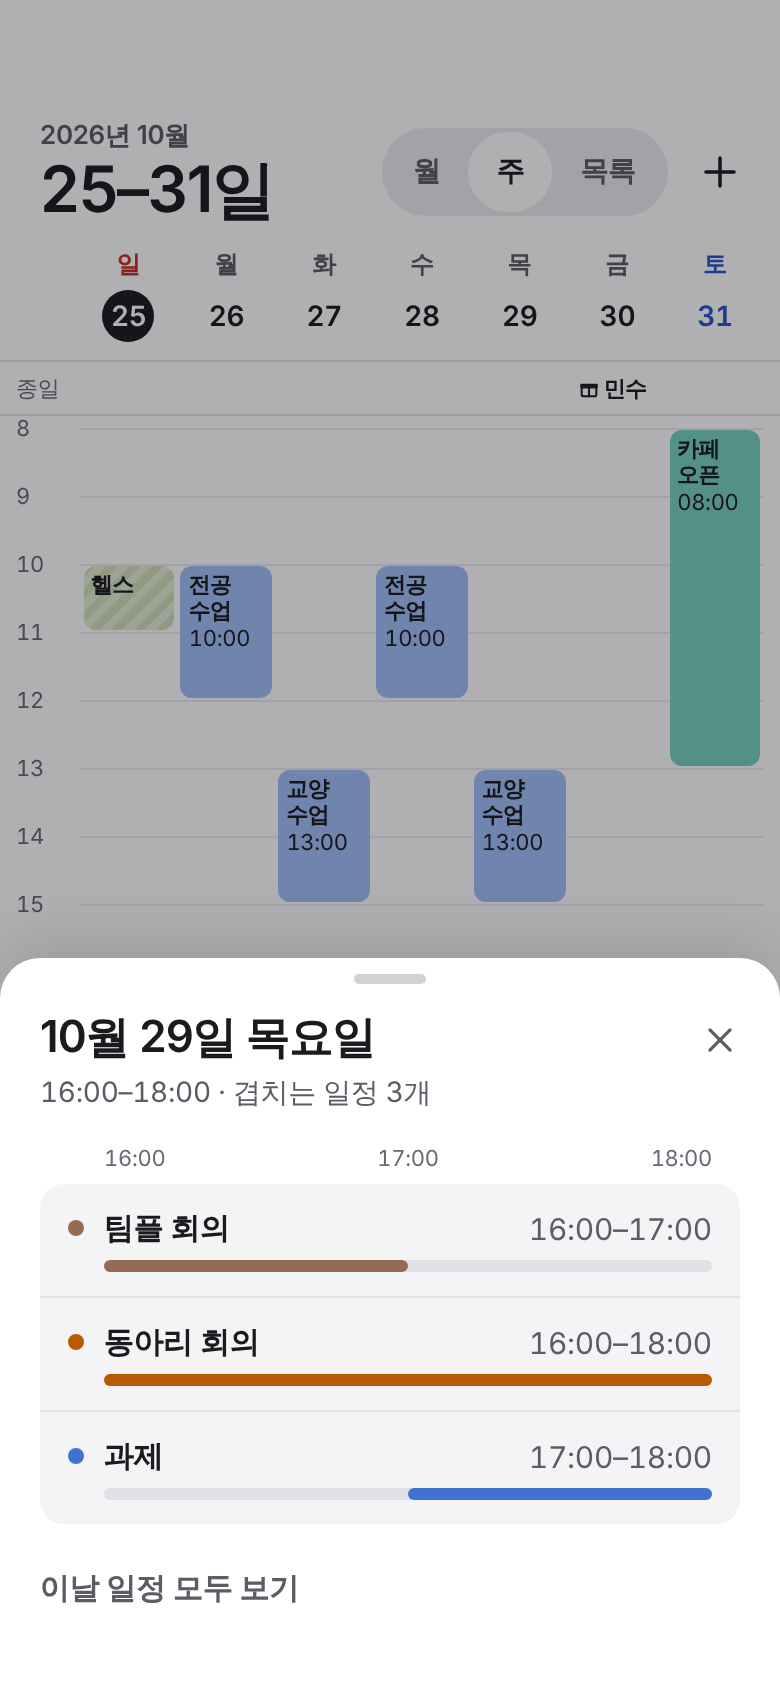
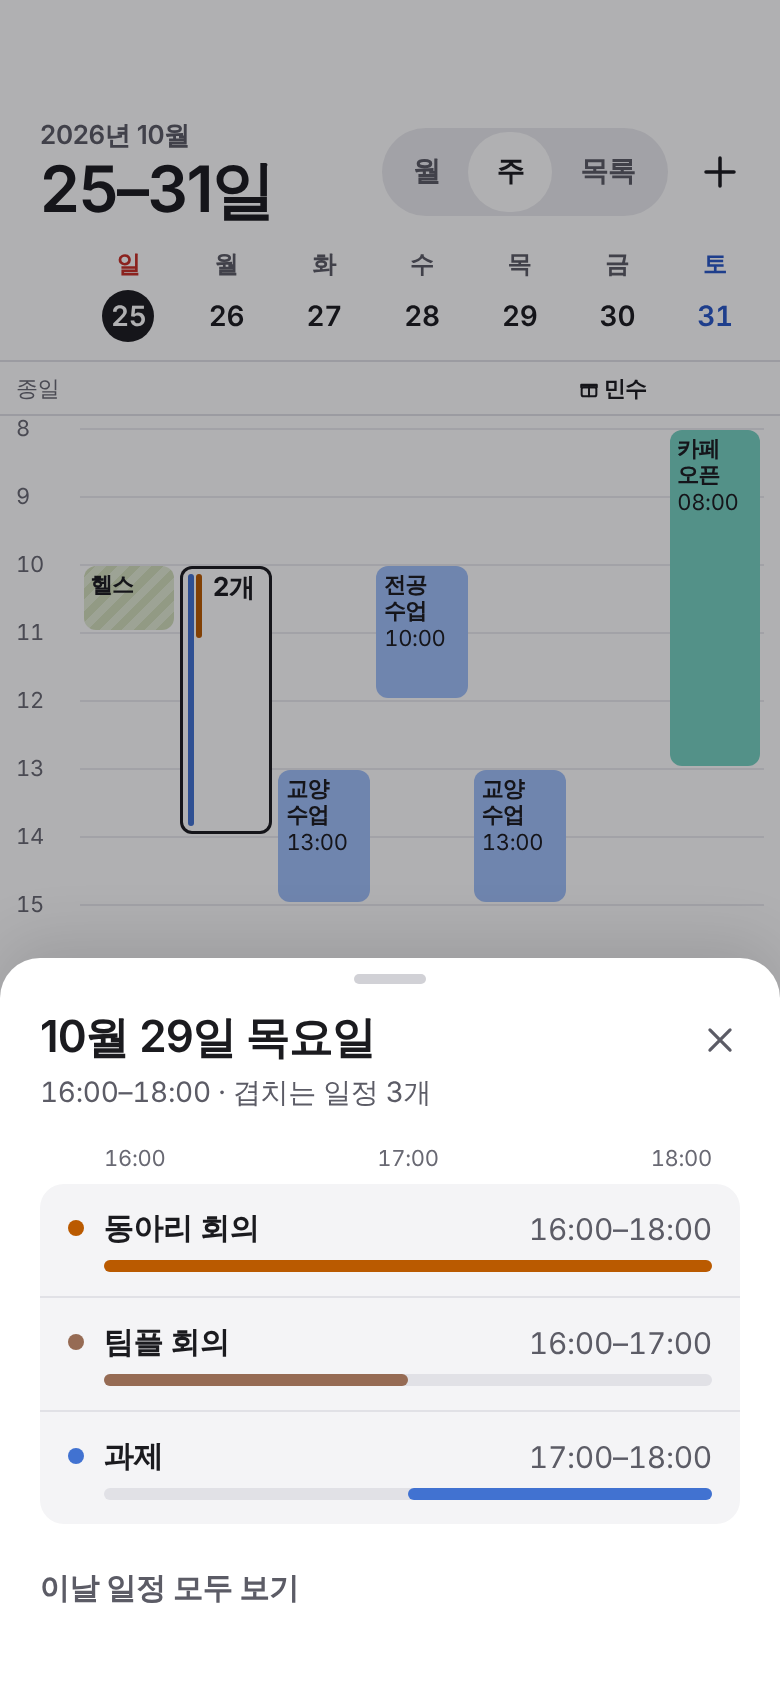
docs(design): drop the overlap label and draw each stripe over its own event's time
Adds the case of a short event at the start of a long one (10-11 inside 10-14).

Claude-Session: https://claude.ai/code/session_0132zdS6N6MJFEgcRXTttwBV

Changed region(s): [[0.0923, 0.7085, 0.9231, 0.8318], [0.2154, 0.3081, 0.3692, 0.4929]]

diff --git a/docs/design/boards/WeekOverlap.dc.html b/docs/design/boards/WeekOverlap.dc.html
@@ -60,12 +60,11 @@ button{font:inherit;letter-spacing:inherit;color:inherit}
 </a>
 </sc-for>
 <sc-for list="{{groups}}" as="g" hint-placeholder-count="1">
-<button type="button" onClick="{{openSheet}}" aria-label="{{g.label}}" style="position: absolute; left: {{g.x}}px; top: {{g.y}}px; width: {{g.w}}px; height: {{g.h}}px; box-sizing: border-box; padding: 4px 4px 4px 13px; border: none; border-radius: 6px; background: #ffffff; box-shadow: inset 0 0 0 1.5px #1b1b1f; color: #1b1b1f; overflow: hidden; display: flex; flex-direction: column; align-items: flex-start; gap: 1px; cursor: pointer; text-align: left">
-<span aria-hidden="true" style="position: absolute; left: 4px; top: 4px; bottom: 4px; width: 7px; display: flex; gap: 1px">
-<sc-for list="{{g.stripes}}" as="c" hint-placeholder-count="3"><span style="flex: 1 1 0; border-radius: 1px; background: {{c}}"></span></sc-for>
+<button type="button" onClick="{{g.open}}" aria-label="{{g.label}}" style="position: absolute; left: {{g.x}}px; top: {{g.y}}px; width: {{g.w}}px; height: {{g.h}}px; box-sizing: border-box; padding: 4px 4px 4px {{g.pad}}px; border: none; border-radius: 6px; background: #ffffff; box-shadow: inset 0 0 0 1.5px #1b1b1f; color: #1b1b1f; overflow: hidden; display: flex; flex-direction: column; align-items: flex-start; gap: 1px; cursor: pointer; text-align: left">
+<span aria-hidden="true" style="position: absolute; left: 4px; top: 4px; bottom: 4px; display: flex; gap: 1px">
+<sc-for list="{{g.stripes}}" as="c" hint-placeholder-count="3"><span style="position: relative; width: 3px"><span style="position: absolute; left: 0; right: 0; top: {{c.top}}%; height: {{c.h}}%; border-radius: 1.5px; background: {{c.c}}"></span></span></sc-for>
 </span>
 <span style="font-size: 13px; font-weight: 700; line-height: 15px; font-variant-numeric: tabular-nums">{{g.n}}</span>
-<span style="font-size: 11px; line-height: 13px; color: #5c5c66">겹침</span>
 </button>
 </sc-for>
 </div>
@@ -110,18 +109,18 @@ button{font:inherit;letter-spacing:inherit;color:inherit}
 
 <sc-if value="{{open}}" hint-placeholder-val="{{false}}">
 <div aria-hidden="true" onClick="{{closeSheet}}" style="position: absolute; inset: 0; background: rgba(10,10,14,0.32)"></div>
-<section role="dialog" aria-modal="true" aria-label="10월 29일 16:00부터 18:00까지 겹치는 일정 3개" style="position: absolute; left: 0; bottom: 0; width: 390px; box-sizing: border-box; padding: 8px 20px 34px; background: #ffffff; border-radius: 20px 20px 0 0; box-shadow: 0 -8px 32px rgba(0,0,0,0.12); display: flex; flex-direction: column; gap: 16px">
+<section role="dialog" aria-modal="true" aria-label="{{sel.label}}" style="position: absolute; left: 0; bottom: 0; width: 390px; box-sizing: border-box; padding: 8px 20px 34px; background: #ffffff; border-radius: 20px 20px 0 0; box-shadow: 0 -8px 32px rgba(0,0,0,0.12); display: flex; flex-direction: column; gap: 16px">
 <div aria-hidden="true" style="align-self: center; width: 36px; height: 5px; border-radius: 3px; background: #d1d1d6"></div>
 <div style="display: flex; align-items: flex-start; justify-content: space-between; margin-top: -4px">
 <div style="display: flex; flex-direction: column; gap: 4px">
-<h2 style="margin: 0; font-size: 22px; font-weight: 600; letter-spacing: -0.02em">10월 29일 목요일</h2>
-<span style="font-size: 14px; color: #5c5c66; font-variant-numeric: tabular-nums">16:00–18:00 · 겹치는 일정 3개</span>
+<h2 style="margin: 0; font-size: 22px; font-weight: 600; letter-spacing: -0.02em">{{sel.day}}</h2>
+<span style="font-size: 14px; color: #5c5c66; font-variant-numeric: tabular-nums">{{sel.sub}}</span>
 </div>
 <button type="button" onClick="{{closeSheet}}" aria-label="닫기" style="width: 44px; height: 44px; margin: -6px -12px 0 0; border: none; background: none; display: flex; align-items: center; justify-content: center; color: #5c5c66; cursor: pointer"><svg viewBox="0 0 24 24" width="22" height="22" aria-hidden="true" style="fill: none; stroke: currentColor; stroke-width: 1.75; stroke-linecap: round; stroke-linejoin: round"><path d="M6.5 6.5l11 11M17.5 6.5l-11 11"></path></svg></button>
 </div>
-<div aria-hidden="true" style="display: flex; justify-content: space-between; margin: 0 14px -10px 32px; font-size: 11px; color: #696973; font-variant-numeric: tabular-nums"><span>16:00</span><span>17:00</span><span>18:00</span></div>
+<div aria-hidden="true" style="display: flex; justify-content: space-between; margin: 0 14px -10px 32px; font-size: 11px; color: #696973; font-variant-numeric: tabular-nums"><span>{{sel.a}}</span><span>{{sel.b}}</span><span>{{sel.c}}</span></div>
 <ul style="margin: 0; padding: 0; list-style: none; border-radius: 12px; background: #f4f4f6; overflow: hidden">
-<sc-for list="{{rows}}" as="r" hint-placeholder-count="3">
+<sc-for list="{{sel.rows}}" as="r" hint-placeholder-count="3">
 <li style="border-top: {{r.line}}">
 <a href="Editor.dc.html" aria-label="{{r.label}}" style="min-height: 56px; box-sizing: border-box; padding: 8px 14px; display: flex; flex-direction: column; justify-content: center; gap: 6px">
 <span style="display: flex; align-items: center; gap: 10px">
@@ -146,7 +145,7 @@ button{font:inherit;letter-spacing:inherit;color:inherit}
 class Component extends DCLogic {
   constructor(props) {
     super(props);
-    this.state = { ni: 1, open: false };
+    this.state = { ni: 1, open: -1 };
   }
   renderVals() {
     const W = ['일', '월', '화', '수', '목', '금', '토'];
@@ -166,7 +165,6 @@ class Component extends DCLogic {
     const E = [
       [0, 10, 11, '헬스', soft, '#1b1b1f'],
       [0, 18, 20, '가족 · 저녁', '#c04c7b', '#ffffff'],
-      [1, 10, 12, '전공 수업', '#a0c0fa', '#1b1b1f'],
       [1, 19, 20, '헬스', soft, '#1b1b1f'],
       [2, 13, 15, '교양 수업', '#a0c0fa', '#1b1b1f'],
       [3, 10, 12, '전공 수업', '#a0c0fa', '#1b1b1f'],
@@ -202,36 +200,62 @@ class Component extends DCLogic {
       isGroup: cur.kind === 'group', isEvent: cur.kind === 'event', isBday: cur.kind === 'bday',
       ring: cur.kind === 'bday' ? 'inset 0 0 0 1px #e1e1e6' : 'none',
     });
-    // Thursday 16:00-18:00: three timed events overlap, so the column draws one group instead of narrow lanes
-    // (m1.md decision 44). Its stripes are the events' calendar colors, in the core's order.
-    const G = [
-      { t: '팀플 회의', s: 16, e: 17, c: '#966b54' },
-      { t: '동아리 회의', s: 16, e: 18, c: '#ba5a00' },
-      { t: '과제', s: 17, e: 18, c: '#4172d1' },
+    // A day column draws events that overlap one another as one group instead of narrow lanes (m1.md decision 44).
+    // Each stripe spans its own event inside the group, so a long event with a short one at its start reads as
+    // one full stripe and one short one. Events are in the core's order: by start, then the longer first.
+    const GROUPS = [
+      { d: 1, day: '10월 26일 월요일', ev: [
+        { t: '전공 수업', s: 10, e: 14, c: '#4172d1' },
+        { t: '교수 면담', s: 10, e: 11, c: '#ba5a00' },
+      ] },
+      { d: 4, day: '10월 29일 목요일', ev: [
+        { t: '동아리 회의', s: 16, e: 18, c: '#ba5a00' },
+        { t: '팀플 회의', s: 16, e: 17, c: '#966b54' },
+        { t: '과제', s: 17, e: 18, c: '#4172d1' },
+      ] },
     ];
-    const gs = 16, ge = 18;
-    const groups = [{
-      n: G.length + '개',
-      stripes: G.map((g) => g.c),
-      x: (40 + 4 * colW + 1.5).toFixed(1),
-      w: (colW - 3).toFixed(1),
-      y: (gs - H0) * PX + 1,
-      h: (ge - gs) * PX - 2,
-      label: '10월 29일 16:00부터 18:00까지 겹치는 일정 ' + G.length + '개: ' + G.map((g) => g.t).join(', '),
-    }];
-    const rows = G.map((g, i) => ({
-      t: g.t, c: g.c,
-      time: pad(g.s) + ':00–' + pad(g.e) + ':00',
-      line: i === 0 ? 'none' : '1px solid #e1e1e6',
-      l: ((g.s - gs) / (ge - gs) * 100).toFixed(1),
-      w: ((g.e - g.s) / (ge - gs) * 100).toFixed(1),
-      label: g.t + ', ' + pad(g.s) + ':00부터 ' + pad(g.e) + ':00까지',
-    }));
+    const hm = (h) => pad(Math.floor(h)) + ':' + (h % 1 ? '30' : '00');
+    const built = GROUPS.map((G, gi) => {
+      const gs = Math.min(...G.ev.map((e) => e.s));
+      const ge = Math.max(...G.ev.map((e) => e.e));
+      const span = ge - gs;
+      const shown = G.ev.slice(0, 3);
+      const label = G.day.replace(/ [^ ]+요일$/, '') + ' ' + hm(gs) + '부터 ' + hm(ge) + '까지 겹치는 일정 ' + G.ev.length + '개: ' + G.ev.map((e) => e.t).join(', ');
+      return {
+        block: {
+          n: G.ev.length + '개',
+          stripes: shown.map((e) => ({ c: e.c, top: ((e.s - gs) / span * 100).toFixed(1), h: ((e.e - e.s) / span * 100).toFixed(1) })),
+          pad: 4 + shown.length * 4 + 4,
+          x: (40 + G.d * colW + 1.5).toFixed(1),
+          w: (colW - 3).toFixed(1),
+          y: (gs - H0) * PX + 1,
+          h: span * PX - 2,
+          label,
+          open: () => this.setState({ open: gi }),
+        },
+        sheet: {
+          day: G.day,
+          sub: hm(gs) + '–' + hm(ge) + ' · 겹치는 일정 ' + G.ev.length + '개',
+          a: hm(gs), b: hm((gs + ge) / 2), c: hm(ge),
+          label,
+          rows: G.ev.map((e, i) => ({
+            t: e.t, c: e.c,
+            time: hm(e.s) + '–' + hm(e.e),
+            line: i === 0 ? 'none' : '1px solid #e1e1e6',
+            l: ((e.s - gs) / span * 100).toFixed(1),
+            w: ((e.e - e.s) / span * 100).toFixed(1),
+            label: e.t + ', ' + hm(e.s) + '부터 ' + hm(e.e) + '까지',
+          })),
+        },
+      };
+    });
+    const groups = built.map((g) => g.block);
+    const openIdx = this.state.open;
     return {
-      days, hours, events, nx, groups, rows,
-      open: this.state.open,
-      openSheet: () => this.setState({ open: true }),
-      closeSheet: () => this.setState({ open: false }),
+      days, hours, events, nx, groups,
+      open: openIdx >= 0,
+      sel: built[Math.max(0, openIdx)].sheet,
+      closeSheet: () => this.setState({ open: -1 }),
       atStart: ni === 0, atEnd: ni === NEXT.length - 1,
       prevOp: ni === 0 ? 0.3 : 1, nextOp: ni === NEXT.length - 1 ? 0.3 : 1,
       prevNext: () => this.setState({ ni: Math.max(0, ni - 1) }),

diff --git a/docs/design/m1.md b/docs/design/m1.md
@@ -221,8 +221,8 @@ flowchart TD
 | --- | --- |
 | 구성 | 머리글: 연·월(13) + "25–31일"(32) + 세그먼트 → 요일 줄(날짜 원) → 종일 줄(생일, 종일 일정) → 시간 축 8시부터(1시간 48, 스크롤해서 0–24시) → 일정 블록(모서리 8, 캘린더 색 2단계, 왼쪽 2pt 진한 선, 제목 12 · 600 + 시각 11) → 다음 할 일 막대, 탭 막대 |
 | 동작 | 빈 칸 길게 누르기 → 그 시각으로 빠른 입력. 블록 탭 → 편집. 겹침 묶음 탭 → 겹치는 일정 시트. 좌우 밀기 → 주 이동 |
-| 상태 | 현재 시각 빨간 선 + 왼쪽 점. 겹치는 일정: 한 날 칸에서 시간이 이어서 겹치는 일정들(둘 이상)은 열로 나누지 않고, 그 시간 전체를 덮는 **겹침 묶음** 하나로 그림. 묶음은 흰 바탕에 먹색 1.5 테두리, 왼쪽에 일정마다 캘린더 색 세로줄(넷 이상이어도 줄은 셋), 위에 "3개"(13 · 700), 아래 "겹침"(11, 보조색)([10월 29일](screens/m1/07-week--overlap@2x.png)). 겹치지 않는 일정은 지금처럼 칸 폭 그대로(결정 44) |
-| 겹치는 일정 시트 | 손잡이 → 제목 "10월 29일 목요일" + 보조 "16:00–18:00 · 겹치는 일정 3개" + 닫기 → 시각 눈금(묶음의 시작·가운데·끝) → 회색 묶음, 줄마다(56) 캘린더 색 점, 제목(15 · 600), 오른쪽 시각(15 고정폭), 그 아래 높이 6의 띠에 묶음 시간 가운데 그 일정이 차지하는 부분을 캘린더 색으로 칠함 → 글자 버튼 "이날 일정 모두 보기"(그날의 빠른 입력 시트, 결정 42). 줄 탭 → 그 일정의 편집. 순서는 코어 순서(시작 순)([시트](screens/m1/07-week--overlap-list@2x.png)). 접근성: 묶음은 버튼 하나로 "10월 29일 16:00부터 18:00까지 겹치는 일정 3개: 팀플 회의, 동아리 회의, 과제"로 읽고, 띠는 읽지 않음 |
+| 상태 | 현재 시각 빨간 선 + 왼쪽 점. 겹치는 일정: 한 날 칸에서 시간이 이어서 겹치는 일정들(둘 이상)은 열로 나누지 않고, 그 시간 전체를 덮는 **겹침 묶음** 하나로 그림. 묶음은 흰 바탕에 먹색 1.5 테두리, 위에 개수 "3개"(13 · 700), 왼쪽에 일정마다 캘린더 색 세로줄(폭 3, 넷 이상이어도 줄은 셋). 세로줄은 묶음 안에서 그 일정의 시간만큼만 그려, 무엇이 언제 겹치는지 칸 안에서도 보임. 10–11시와 10–14시가 겹치면 10–14시 묶음 "2개"에 끝까지 이어지는 줄 하나와 맨 위 한 시간짜리 줄 하나([묶음](screens/m1/07-week--overlap@2x.png)). 줄과 시트의 순서는 코어 순서(시작 순, 같으면 긴 것 먼저). 겹치지 않는 일정은 지금처럼 칸 폭 그대로(결정 44) |
+| 겹치는 일정 시트 | 손잡이 → 제목 "10월 29일 목요일" + 보조 "16:00–18:00 · 겹치는 일정 3개" + 닫기 → 시각 눈금(묶음의 시작·가운데·끝) → 회색 묶음, 줄마다(56) 캘린더 색 점, 제목(15 · 600), 오른쪽 시각(15 고정폭), 그 아래 높이 6의 띠에 묶음 시간 가운데 그 일정이 차지하는 부분을 캘린더 색으로 칠함 → 글자 버튼 "이날 일정 모두 보기"(그날의 빠른 입력 시트, 결정 42). 줄 탭 → 그 일정의 편집. 순서는 묶음의 세로줄과 같음([16–18시 셋](screens/m1/07-week--overlap-list@2x.png), [10–14시와 10–11시](screens/m1/07-week--overlap-long@2x.png)). 접근성: 묶음은 버튼 하나로 "10월 29일 16:00부터 18:00까지 겹치는 일정 3개: 팀플 회의, 동아리 회의, 과제"로 읽고, 띠는 읽지 않음 |
 | 코어 | `calendar.week(start)` |
 
 ### 8. 목록 보기
@@ -506,4 +506,4 @@ flowchart TD
 
 ### 검토할 것 (겹치는 일정, TestFlight 피드백)
 
-44. **주 보기에서 시간이 겹치는 일정은 열로 나누지 않고 겹침 묶음 하나로 그리며, 누르면 겹치는 일정 시트가 그 일정들을 시간 띠와 함께 보여 줍니다(iOS, 안드로이드).** 주 보기의 날 칸은 약 49pt라 셋으로 나누면 한 열이 16pt쯤이 되어 제목도 시각도 읽히지 않았고, 넘친 일정은 "+N"으로만 남아 무엇이 겹쳤는지 볼 곳이 없었습니다(사용자 피드백: 겹침이 잘 안 보임, 같은 시간의 일정 목록이 필요함). 묶음은 몇 개가 겹쳤는지와 캘린더 색만 보이고, 무엇이 언제 겹치는지는 시트의 시간 띠가 보여 줍니다. 시트는 겹친 일정만 보이고, 그날 전체는 "이날 일정 모두 보기"로 결정 42의 빠른 입력 시트를 엽니다. 묶음의 범위는 서로 이어서 겹치는 일정 전체입니다(16–17, 16–18, 17–18은 한 묶음 16–18). 끝과 시작이 맞닿기만 하면(16–17과 17–18 둘뿐) 겹치지 않은 것으로 봅니다. 월 보기, 목록 보기, 빠른 입력 시트의 "이날 일정"은 바꾸지 않습니다. 줄마다 시각이 적혀 있어 겹침을 읽을 수 있기 때문입니다. 7번의 "최대 3열, 넘으면 +N"은 이 결정으로 바꿉니다. 보드는 `WeekOverlap`입니다.
+44. **주 보기에서 시간이 겹치는 일정은 열로 나누지 않고 겹침 묶음 하나로 그리며, 누르면 겹치는 일정 시트가 그 일정들을 시간 띠와 함께 보여 줍니다(iOS, 안드로이드).** 주 보기의 날 칸은 약 49pt라 셋으로 나누면 한 열이 16pt쯤이 되어 제목도 시각도 읽히지 않았고, 넘친 일정은 "+N"으로만 남아 무엇이 겹쳤는지 볼 곳이 없었습니다(사용자 피드백: 겹침이 잘 안 보임, 같은 시간의 일정 목록이 필요함). 묶음에는 개수와, 일정마다 그 시간만큼 그린 캘린더 색 세로줄만 둡니다. 칸이 좁아 글자를 더하지 않고, 자세한 것은 시트의 시간 띠가 보여 줍니다. 긴 일정의 앞쪽에 짧은 일정이 겹칠 때(10–14시와 10–11시)도 같은 규칙이라, 묶음은 10–14시 전체를 덮고 세로줄이 한 시간만 겹친다는 것을 보여 줍니다. 그래서 겹치지 않는 11–14시에도 긴 일정의 제목은 칸에 보이지 않는데, 일정을 둘로 잘라 그리면 같은 일정이 두 번 보이므로 이쪽을 택합니다. 시트는 겹친 일정만 보이고, 그날 전체는 "이날 일정 모두 보기"로 결정 42의 빠른 입력 시트를 엽니다. 묶음의 범위는 서로 이어서 겹치는 일정 전체입니다(16–17, 16–18, 17–18은 한 묶음 16–18). 끝과 시작이 맞닿기만 하면(16–17과 17–18 둘뿐) 겹치지 않은 것으로 봅니다. 월 보기, 목록 보기, 빠른 입력 시트의 "이날 일정"은 바꾸지 않습니다. 줄마다 시각이 적혀 있어 겹침을 읽을 수 있기 때문입니다. 7번의 "최대 3열, 넘으면 +N"은 이 결정으로 바꿉니다. 보드는 `WeekOverlap`입니다.

diff --git a/docs/design/screens.md b/docs/design/screens.md
@@ -33,7 +33,7 @@
 | 주 보기 | 목록 보기 | 일정 편집 |
 | --- | --- | --- |
 | <img src="screens/m1/07-week@2x.png" width="240" alt="주 보기"> | <img src="screens/m1/08-list@2x.png" width="240" alt="목록 보기"> | <img src="screens/m1/09-editor@2x.png" width="240" alt="일정 편집"> |
-| 시간 축 위의 일정 블록. 겹치는 일정은 묶음 하나로 그리고, 누르면 겹친 일정을 시간 띠와 함께 보여 줍니다([묶음](screens/m1/07-week--overlap@2x.png), [시트](screens/m1/07-week--overlap-list@2x.png)). | 다가오는 일정을 날짜별로. | 캘린더, 종일, 시간, 반복, 알림, 사진·파일 첨부. 그룹에 어떻게 보이는지 한 줄로 알립니다. |
+| 시간 축 위의 일정 블록. 겹치는 일정은 묶음 하나로 그리고, 누르면 겹친 일정을 시간 띠와 함께 보여 줍니다([묶음](screens/m1/07-week--overlap@2x.png), [시트](screens/m1/07-week--overlap-list@2x.png), [긴 일정과 짧은 일정](screens/m1/07-week--overlap-long@2x.png)). | 다가오는 일정을 날짜별로. | 캘린더, 종일, 시간, 반복, 알림, 사진·파일 첨부. 그룹에 어떻게 보이는지 한 줄로 알립니다. |
 
 ### 교대 템플릿 · 사람·생일 · 나 · 위젯
 
